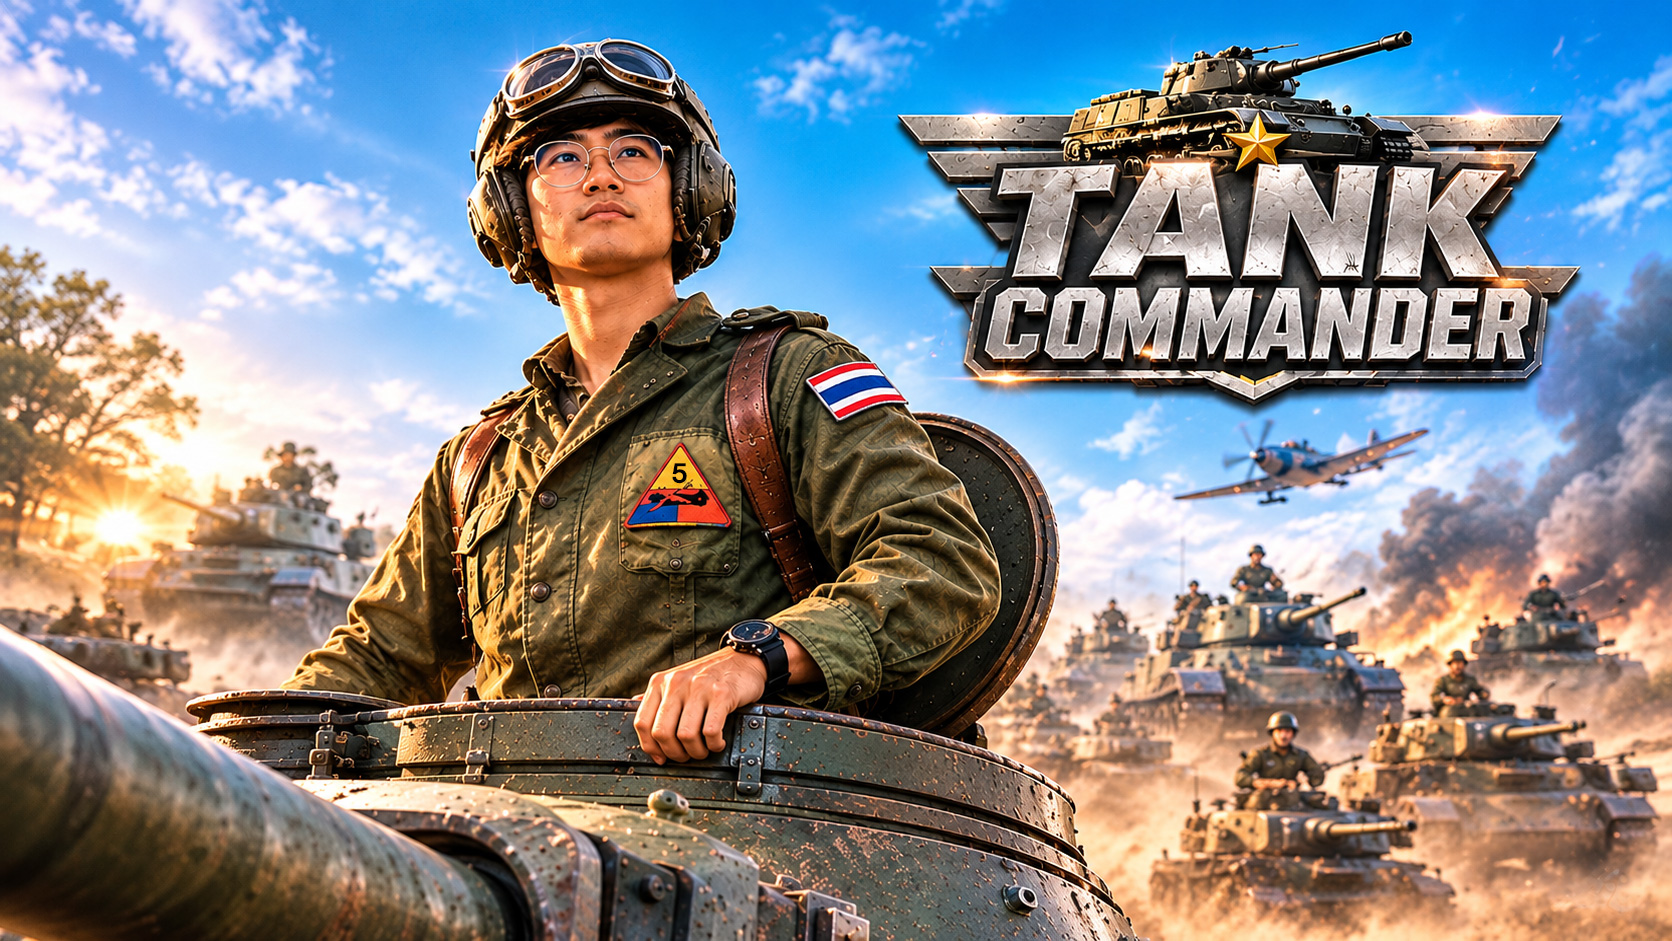
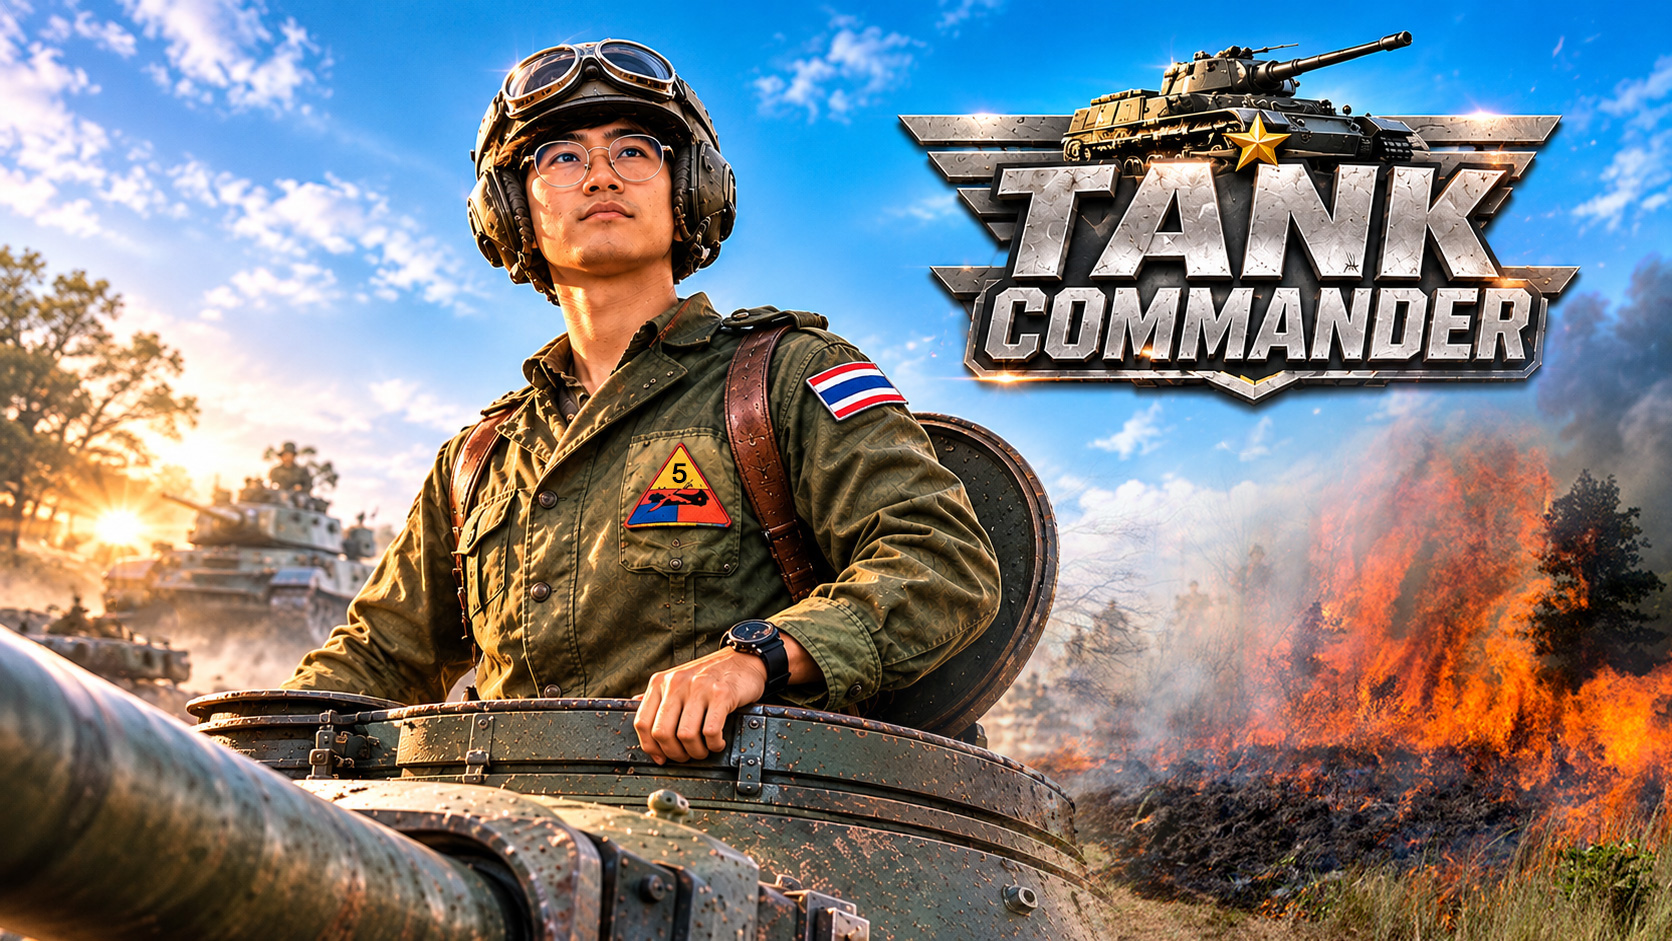
Menu: two drones fly in from the edges, then hover in a loop; new key art

Changed region(s): [[0.5598, 0.4006, 1.0, 1.0], [0.0622, 0.6164, 0.1244, 0.678]]

diff --git a/src/App.css b/src/App.css
@@ -93,6 +93,27 @@ html, body, #root, .app { width: 100%; height: 100%; overflow: hidden; font-fami
   position: absolute; inset: 0;
   background: linear-gradient(180deg, rgba(0,0,0,.15) 0%, rgba(0,0,0,0) 40%, rgba(0,0,0,.55) 100%);
 }
+/* key-art drones: fly in from the screen edges, then hover in place forever */
+.menu-drone { position: absolute; z-index: 1; pointer-events: none; animation: drone-in 1.6s cubic-bezier(.2,.8,.25,1) both; }
+.menu-drone img { display: block; width: 100%; filter: drop-shadow(0 10px 14px rgba(0,0,0,.45)); animation: drone-hover 3.2s ease-in-out 1.6s infinite; }
+.menu-drone-l { left: 0.5%; top: 1.5%; width: clamp(130px, 18.5vw, 360px); --from: -130vw; --flip: -1; }
+.menu-drone-r { left: 74.5%; top: 42%; width: clamp(115px, 16.5vw, 320px); --from: 60vw; --flip: 1; animation-delay: .35s; }
+.menu-drone-r img { animation-duration: 3.8s; animation-delay: 1.95s; }
+.menu-drone img { transform: scaleX(var(--flip)); }
+@keyframes drone-in {
+  from { transform: translate(var(--from), -6vh) rotate(calc(var(--flip) * 8deg)); opacity: 0; }
+  20% { opacity: 1; }
+  to { transform: none; opacity: 1; }
+}
+@keyframes drone-hover {
+  0%, 100% { transform: scaleX(var(--flip)) translate(0, 0) rotate(0deg); }
+  25% { transform: scaleX(var(--flip)) translate(-6px, -10px) rotate(-2deg); }
+  50% { transform: scaleX(var(--flip)) translate(0, -16px) rotate(0deg); }
+  75% { transform: scaleX(var(--flip)) translate(6px, -8px) rotate(2deg); }
+}
+@media (prefers-reduced-motion: reduce) {
+  .menu-drone, .menu-drone img { animation: none; }
+}
 .keyart-ui {
   position: relative; z-index: 2; height: 100%;
   display: flex; flex-direction: column; align-items: center; justify-content: flex-end;

diff --git a/src/App.jsx b/src/App.jsx
@@ -204,6 +204,8 @@ function StartScreen({ onStart, onHiScores, settings, onSettings }) {
     <div className="screen keyart">
       <img src={import.meta.env.BASE_URL + 'assets/menu.jpg'} className="menu-bg" alt="" />
       <div className="menu-bg-shade" />
+      <div className="menu-drone menu-drone-l" aria-hidden="true"><img src={import.meta.env.BASE_URL + 'assets/drone.png'} alt="" /></div>
+      <div className="menu-drone menu-drone-r" aria-hidden="true"><img src={import.meta.env.BASE_URL + 'assets/drone.png'} alt="" /></div>
       <EmberFX />
       <button className="menu-close" aria-label="Close" onClick={() => { playClick(); window.close(); setTimeout(() => { location.href = 'about:blank' }, 150) }}>✕</button>
       <div className="keyart-ui">
